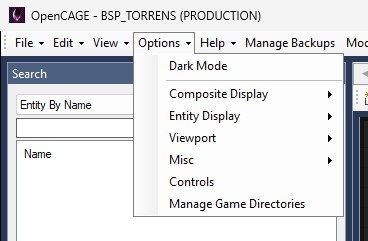
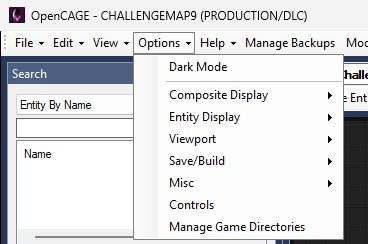
docs

diff --git a/docs/options/index.html b/docs/options/index.html
@@ -87,6 +87,7 @@
 <li class="nav-item section-title"><a class="nav-link scrollto" href="#composite-display"><span class="theme-icon-holder me-2"><i class="fas fa-scroll"></i></span>Composite Display</a></li>
 <li class="nav-item section-title"><a class="nav-link scrollto" href="#entity-display"><span class="theme-icon-holder me-2"><i class="fas fa-scroll"></i></span>Entity Display</a></li>
 <li class="nav-item section-title"><a class="nav-link scrollto" href="#viewport"><span class="theme-icon-holder me-2"><i class="fas fa-scroll"></i></span>Viewport</a></li>
+<li class="nav-item section-title"><a class="nav-link scrollto" href="#save-build"><span class="theme-icon-holder me-2"><i class="fas fa-scroll"></i></span>Save/Build</a></li>
 <li class="nav-item section-title"><a class="nav-link scrollto" href="#misc"><span class="theme-icon-holder me-2"><i class="fas fa-scroll"></i></span>Misc</a></li>
 <li class="nav-item section-title"><a class="nav-link scrollto" href="#controls"><span class="theme-icon-holder me-2"><i class="fas fa-scroll"></i></span>Controls</a></li>
 <li class="nav-item section-title"><a class="nav-link scrollto" href="#manage-installs"><span class="theme-icon-holder me-2"><i class="fas fa-scroll"></i></span>Manage Game Directories</a></li>
@@ -110,8 +111,8 @@
 
 	<section class="docs-section" style="padding-top:0;">
 		<p>The toolbar <b>Options</b> menu configures the script editor — how composites and entities are shown, Viewport behaviour, save/launch helpers, and more. It opens from the <b>Options</b> button on the main toolbar, between <b>View</b> and <b>Help</b>:</p>
-		<p><img src="img/options-menu.jpg" alt="The OpenCAGE toolbar with the Options menu open, listing Dark Mode, Composite Display, Entity Display, Viewport, Misc, Controls and Manage Game Directories." style="max-width:100%;width:720px"></p>
-		<p><b>Composite Display</b>, <b>Entity Display</b>, <b>Viewport</b> and <b>Misc</b> open submenus, mostly of checkboxes that stick between sessions. <b>Controls</b> opens a shortcut reference, and <b>Manage Game Directories</b> opens the multi-install manager.</p>
+		<p><img src="img/options-menu.jpg" alt="The OpenCAGE toolbar with the Options menu open, listing Dark Mode, Composite Display, Entity Display, Viewport, Save/Build, Misc, Controls and Manage Game Directories." style="max-width:100%;width:720px"></p>
+		<p><b>Composite Display</b>, <b>Entity Display</b>, <b>Viewport</b>, <b>Save/Build</b> and <b>Misc</b> open submenus, mostly of checkboxes that stick between sessions. <b>Controls</b> opens a shortcut reference, and <b>Manage Game Directories</b> opens the multi-install manager.</p>
 		<p>The menu stays open after you tick something, so you can set several options in one go — it closes on an outside click, on Escape, or when it loses focus.</p>
     </section>
 </article>
@@ -196,32 +197,47 @@
     </section>
 </article>
 
+<article class="docs-article" id="save-build">
+    <header class="docs-header">
+<h1 class="docs-heading">Save/Build</h1>
+    </header>
+
+	<section class="docs-section" style="padding-top:0;">
+		<p>The <b>Save/Build</b> submenu holds the options that change what saving does: what you're told, what happens afterwards, and how <a href="/docs/save-and-build/">Save and Build</a> treats the level's radiosity. Below it is open with <b>Don't Rebuild Radiosity</b> ticked:</p>
+		<p><img src="img/options-save-build.jpg" alt="The Options menu with the Save/Build submenu open, listing Show Confirmation When Saving (ticked), Prompt to Save on Close, Open Game On Save and a greyed-out Write Compressed, then below a divider a greyed-out Always Fully Rebuild Radiosity and a ticked Don't Rebuild Radiosity." style="max-width:100%;width:720px"></p>
+		<p class="text-muted small"><i>Write Compressed is greyed out because it only reports the loaded level's state. Always Fully Rebuild Radiosity is greyed out, and shows unticked, because Don't Rebuild Radiosity is ticked.</i></p>
+		<ul>
+			<li><b>Show Confirmation When Saving</b> — shows a “Saved changes!” popup after a successful save (on by default).</li>
+			<li><b>Prompt to Save on Close</b> — asks whether to save when you close OpenCAGE with a level open (off by default). Independent of the unsaved-changes indicator, which always adds <b>[UNSAVED CHANGES]</b> to the window title (and so the taskbar) once you've modified something.</li>
+			<li><b>Open Game On Save</b> — after save, launches into the level you're editing, past the title screen. Uses some of the same patches as <a href="/docs/launch-game/">Launch Game</a>, and sets up its <a href="/docs/launch-game/#debug-tools">Debug tools</a> (the <a href="/docs/launch-game/#debug-menu">Debug Menu</a> with <a href="/docs/launch-game/#dont-write-saves">Don't write saves</a> and the free camera in its <a href="/docs/debug-menu/#cinematic">Cinematic group</a> that replaced Cinematic Tools, Debug entities, Hot reload and <a href="/docs/live-link/">Live Link</a>), Cap FPS, Unlock mouse, <a href="/docs/launch-game/#possess-characters">Possess characters</a> and <a href="/docs/launch-game/#ui-mods">UI tweaks</a> as they're ticked in that window (off by default).</li>
+			<li><b>Write Compressed</b> — status only: shows whether the loaded level's Commands are compressed. Not user-togglable.</li>
+			<li><b>Always Fully Rebuild Radiosity</b> — every save rebuilds the level's radiosity from scratch, rather than keeping the existing lighting and only baking what changed. It's slower, and it replaces the game's own lighting in areas you haven't touched too. Once a level has been fully rebuilt, later saves keep fully rebuilding it even with this off (off by default). Greyed out, and shown unticked, while <b>Don't Rebuild Radiosity</b> is ticked; it keeps its own setting for when you untick that. See <a href="/docs/save-and-build/#radiosity">How Radiosity is Handled</a>.</li>
+			<li><b>Don't Rebuild Radiosity</b> — <b>Save and Build</b> keeps the level's radiosity instead of baking it (off by default). That can save minutes a build on a level whose radiosity is rebuilt in full every time, as a custom level's is, or one with a lot of new content to bake. Everything else is still built, and the kept lighting is matched up to the rebuilt level so the game reads it as before: what you haven't touched keeps its lighting, what you've moved keeps the lighting of where it was, and what you've added has no baked lighting yet, so it looks flat until you build with this unticked. OpenCAGE remembers what you added and moved, so that build lights it. A level with no radiosity yet is built without any while this is ticked. The builds OpenCAGE runs for the <a href="/docs/installing-mods/">Mod Manager</a> and when making mods always bake. See <a href="/docs/save-and-build/#skip-radiosity">Skipping the Radiosity Bake</a>.</li>
+		</ul>
+		<p>Saving an uncompressed level now always writes both the PAK and BIN forms of the Commands data — that used to be an option and no longer is. Compressed levels still save as BIN only.</p>
+    </section>
+</article>
+
 <article class="docs-article" id="misc">
     <header class="docs-header">
 <h1 class="docs-heading">Misc</h1>
     </header>
 
 	<section class="docs-section" style="padding-top:0;">
-		<p>The <b>Misc</b> submenu gathers the save, launch, layout and model-preview helpers. Below it is open with the Viewport enabled:</p>
-		<p><img src="img/options-misc.jpg" alt="The Options menu with the Misc submenu open, listing the save, model view, search window, layout, numeric step, launch, platform, render filter, radiosity, cubemap capture size and AI assistant options, with Write Compressed greyed out." style="max-width:100%;width:720px"></p>
-		<p class="text-muted small"><i>Write Compressed is greyed out because it only reports the loaded level's state; Reset Render Filters On Load is listed only while the Viewport is enabled.</i></p>
+		<p>The <b>Misc</b> submenu gathers everything else: the layout, model-preview, search-window and numeric-step helpers, the Live Link ones, and the AI assistant switch. Below it is open with the default ticks:</p>
+		<p><img src="img/options-misc.jpg" alt="The Options menu with the Misc submenu open, listing Use Textured Model View (ticked), Keep Global Search Window Open, Reset UI Layouts, Set Numeric Step, Show Game Platform, Cubemap Capture Size, Hide Live Link Label In-Game and Allow AI Assistants (MCP) (ticked)." style="max-width:100%;width:720px"></p>
+		<p class="text-muted small"><i>Taken with the Viewport disabled: Reset Render Filters On Load is listed, after Show Game Platform, only while the Viewport is enabled.</i></p>
 		<ul>
-			<li><b>Show Confirmation When Saving</b> — shows a “Saved changes!” popup after a successful save (on by default).</li>
-			<li><b>Prompt to Save on Close</b> — asks whether to save when you close OpenCAGE with a level open (off by default). Independent of the unsaved-changes indicator, which always adds <b>[UNSAVED CHANGES]</b> to the window title (and so the taskbar) once you've modified something.</li>
 			<li><b>Use Textured Model View</b> — model previews try to load textures/materials (on by default).</li>
 			<li><b>Keep Global Search Window Open</b> — after jumping to an entity from global search, the search window stays open (off by default).</li>
 			<li><b>Reset UI Layouts</b> — restores the default window size and dock panel layout. If the Viewport is open, it's kept and repositioned. You stay where you were: the same composite, stepped down as you were, with the same selection.</li>
 			<li><b>Set Numeric Step</b> — sets how much position and rotation values change when you nudge numeric fields in inspectors (defaults: position <code>0.1</code>, rotation <code>1.0</code>).</li>
-			<li><b>Open Game On Save</b> — after save, launches into the level you're editing, past the title screen. Uses some of the same patches as <a href="/docs/launch-game/">Launch Game</a>, and sets up its <a href="/docs/launch-game/#debug-tools">Debug tools</a> (the <a href="/docs/launch-game/#debug-menu">Debug Menu</a> with <a href="/docs/launch-game/#dont-write-saves">Don't write saves</a> and the free camera in its <a href="/docs/debug-menu/#cinematic">Cinematic group</a> that replaced Cinematic Tools, Debug entities, Hot reload and <a href="/docs/live-link/">Live Link</a>), Cap FPS, Unlock mouse, <a href="/docs/launch-game/#possess-characters">Possess characters</a> and <a href="/docs/launch-game/#ui-mods">UI tweaks</a> as they're ticked in that window (off by default).</li>
 			<li><b>Show Game Platform</b> — adds the detected platform (e.g. Steam) to the window title, straight after OpenCAGE — handy with <a href="/docs/multiple-game-installs/">multiple installs</a> open (off by default).</li>
-			<li><b>Write Compressed</b> — status only: shows whether the loaded level's Commands are compressed. Not user-togglable.</li>
 			<li><b>Reset Render Filters On Load</b> — when loading a level, puts the Viewport's function-type render filters back to their defaults (only <b>ModelReference</b> ticked); <b>Occlusion Meshes</b> and <b>Collision Meshes</b> are left as they are. Listed only while the Viewport is enabled (off by default). See <a href="/docs/level-viewer/#previews">Previews &amp; Render Filters</a>.</li>
-			<li><b>Always Fully Rebuild Radiosity</b> — every save rebuilds the level's radiosity from scratch, rather than keeping the existing lighting and only baking what changed. It's slower, and it replaces the game's own lighting in areas you haven't touched too. Once a level has been fully rebuilt, later saves keep fully rebuilding it even with this off (off by default). See <a href="/docs/save-and-build/#radiosity">How Radiosity is Handled</a>.</li>
 			<li><b>Cubemap Capture Size</b> — the size of each face of the cubemaps <a href="/docs/live-link/#capture-cubemaps">captured in the game</a> over Live Link: <b>Same as the Cubemap Replaced</b> (the default; the game's own are all 128 × 128), or 64, 128, 256 or 512 pixels. Bigger is sharper on mirror-like surfaces and takes more memory; the game's window needs to be at least as tall as the faces.</li>
 			<li><b>Hide Live Link Label In-Game</b> — the game stops showing <b>OpenCAGE Live Link</b> in its top-right corner while <a href="/docs/live-link/">Live Link</a> is connected. A connected game hides or shows it straight away, and a game launched later starts that way. The line about the last thing Live Link did still shows for a few seconds, in the label's place (off by default).</li>
 			<li><b>Allow AI Assistants (MCP)</b> — lets AI assistants such as Claude drive OpenCAGE through <code>OpenCAGE.MCP.exe</code>. Only programs running as you, on this PC, can connect (on by default). While an assistant is working, the status bar says so. See <a href="/docs/ai-assistants/">AI Assistants</a>, and <a href="/docs/ai-assistants/#working">While It Works</a> for that label and the question when you close OpenCAGE mid-task.</li>
 		</ul>
-		<p>Saving an uncompressed level now always writes both the PAK and BIN forms of the Commands data — that used to be an option here and no longer is. Compressed levels still save as BIN only.</p>
     </section>
 </article>
 

diff --git a/docs/save-and-build/index.html b/docs/save-and-build/index.html
@@ -103,6 +103,7 @@
 <li class="nav-item"><a class="nav-link scrollto" href="#gen-lighting">Lighting</a></li>
 <li class="nav-item"><a class="nav-link scrollto" href="#gen-sound">Sound</a></li>
 <li class="nav-item section-title"><a class="nav-link scrollto" href="#radiosity"><span class="theme-icon-holder me-2"><i class="fas fa-scroll"></i></span>How Radiosity is Handled</a></li>
+<li class="nav-item"><a class="nav-link scrollto" href="#skip-radiosity">Skipping the Radiosity Bake</a></li>
 <li class="nav-item section-title"><a class="nav-link scrollto" href="#checking"><span class="theme-icon-holder me-2"><i class="fas fa-scroll"></i></span>Checking the Result</a></li>
 <li class="nav-item section-title"><a class="nav-link scrollto" href="#tips"><span class="theme-icon-holder me-2"><i class="fas fa-scroll"></i></span>Tips &amp; Troubleshooting</a></li>
 <li class="nav-item section-title"><a class="nav-link scrollto" href="#related"><span class="theme-icon-holder me-2"><i class="fas fa-scroll"></i></span>Related Docs</a></li>
@@ -169,7 +170,7 @@
     </header>
 
 	<section class="docs-section" style="padding-top:0;">
-		<p>Everything below is regenerated from the level as it now stands. You do not choose between them individually — a build runs the whole pipeline.</p>
+		<p>Everything below is regenerated from the level as it now stands. You do not choose between them individually — a build runs the whole pipeline, except that it can be told to keep the level's radiosity as it is (see <a href="#skip-radiosity">Skipping the Radiosity Bake</a>).</p>
 	</section>
 
 	<section class="docs-section" id="gen-geometry">
@@ -229,9 +230,22 @@
 			<li>The level has no usable radiosity to patch — a stripped or newly created level with nothing to build on</li>
 			<li>The level's radiosity was already fully regenerated by a previous build — at that point none of the original bake is left, so there is nothing to preserve</li>
 		</ul>
-		<p>You can also ask for a full regeneration on every build with <b>Options → Misc → Always Fully Rebuild Radiosity</b> (off by default). Once that has rebuilt a level, the second case above applies to it from then on.</p>
+		<p>You can also ask for a full regeneration on every build with <b>Options → Save/Build → Always Fully Rebuild Radiosity</b> (off by default). Once that has rebuilt a level, the second case above applies to it from then on.</p>
 		<p>When a level is fully regenerated, OpenCAGE records that fact in a small <code>.META</code> file next to the level's radiosity data. Later builds read it and keep fully rebuilding, rather than patching lighting that is already entirely ours.</p>
 		<p>A fully regenerated bake is dimmer and flatter than retail's — expect to spend some time on your lights afterwards. <a href="/docs/live-link/#lights">Live Link</a> lets you place and tune lights in the running game, so you can get them right by eye before you build; the bounced light is only worked out by the build itself. If you have a pristine copy of a level's original radiosity, restoring it before you build will give you a better starting point than letting it regenerate.</p>
+	</section>
+
+	<section class="docs-section" id="skip-radiosity">
+		<h2 class="section-heading">Skipping the Radiosity Bake</h2>
+		<p>A custom level's radiosity is all OpenCAGE's own, so every build bakes it from scratch, and that bake can be nearly all of the build's time: minutes, against seconds for everything else. While you're working on the layout, tick <b>Options → Save/Build → Don't Rebuild Radiosity</b> (off by default) and builds leave the radiosity alone. Everything else is regenerated as usual, and the existing bake is kept and matched up to the rebuilt level, so the game reads it as before:</p>
+		<ul>
+			<li>Objects you haven't touched keep their lighting.</li>
+			<li>Objects you've moved keep the lighting of where they were.</li>
+			<li>Objects you've added have no baked lighting yet, so they look flat, and stand out in a dark room.</li>
+			<li>Objects you've deleted stop giving off light, but the light they bounced onto their surroundings stays in the bake.</li>
+		</ul>
+		<p>OpenCAGE notes what you add and move while the option is ticked, in a small <code>.PENDING.META</code> file beside the level's radiosity data. Untick it and build when you want them lit: a patched level bakes them along with anything else you changed, and a fully regenerated one is rebuilt whole, as usual. A level with no radiosity at all yet, such as a new level that has never been built, is built without any while the option is ticked.</p>
+		<p>While it's ticked, <b>Always Fully Rebuild Radiosity</b> is greyed out and has no effect. The builds that porting composites and importing packages run (<b>Build after port</b> and <b>Build after import</b> in <a href="/docs/composite-porting/">Composite Porting</a>) follow the option too. The builds OpenCAGE runs when the <a href="/docs/installing-mods/">Mod Manager</a> merges mods into a level, or when it <a href="/docs/making-mods/">makes a mod</a> from your level, always bake, since what they produce is what players get.</p>
 	</section>
 </article>
 
@@ -260,11 +274,11 @@
 
 	<section class="docs-section" style="padding-top:0;">
 		<ul>
-			<li><b>Build last, not constantly.</b> Do your script and layout work with plain saves, then build once you're ready to test the result in game. There is no benefit to building after every small edit, and it costs you minutes each time.</li>
+			<li><b>Build last, not constantly.</b> Do your script and layout work with plain saves, then build once you're ready to test the result in game. There is no benefit to building after every small edit, and it costs you minutes each time. If you do need to build often on a big level, <a href="#skip-radiosity">Don't Rebuild Radiosity</a> leaves out the slowest part.</li>
 			<li><b>Alien: Isolation is closed automatically</b> when you save, as it holds write locks on the level files. That applies to a build too. Only the game running from this install is closed; one running from another install is left alone.</li>
 			<li><b>"Some data was not regenerated" after a build</b> means a baker failed, or the build hit something smaller it could not do as asked (a required model or gobo texture the level does not ship, a shader it could not compile). The level still saved, but any system the dialog lists as not regenerated kept whatever was already on disk — if that was the navmesh or collision, the game plays on the old layout until a later build succeeds. It can come up after a plain save too, listing character classes whose behaviour tree is missing or can't be loaded: characters of that class crash the game when they spawn, so point the class at another tree in the <a href="/docs/configs/attributes/">Attributes</a> editor.</li>
 			<li><b>A backup in progress blocks saving.</b> If the <a href="/docs/backup-manager/">Backup Manager</a> is working on the level you're editing, saving is refused until it finishes. The same goes while the <a href="/docs/installing-mods/">Mod Manager</a> is applying mods.</li>
-			<li><b>New geometry looks unlit in game?</b> Check whether the level fell through to a full regeneration — see <a href="#radiosity">How Radiosity is Handled</a>. Lighting on newly added objects is generated from your level's lights, so an object placed in a room with no light in it will stay dark.</li>
+			<li><b>New geometry looks unlit in game?</b> Check that <b>Options → Save/Build → Don't Rebuild Radiosity</b> isn't ticked: while it is, nothing new is baked (see <a href="#skip-radiosity">Skipping the Radiosity Bake</a>). Then check whether the level fell through to a full regeneration — see <a href="#radiosity">How Radiosity is Handled</a>. Lighting on newly added objects is generated from your level's lights, so an object placed in a room with no light in it will stay dark.</li>
 			<li><b>NPCs won't path onto new floor?</b> The navmesh is generated from ExclusiveMaster sets — geometry outside those sets isn't considered walkable. Check the generated navmesh with the Viewport's <b>State Info</b> dropdown.</li>
 		</ul>
 	</section>

diff --git a/docs/live-link/index.html b/docs/live-link/index.html
@@ -326,7 +326,7 @@
 			<li><b>What <a href="/docs/save-and-build/">Save and Build</a> works out from the layout</b>: navmesh, cover and job positions, sound, and baked lighting. Props and prefabs you place, and anything you move, over Live Link appear where you put them, but NPCs go by the navmesh, cover and job positions of the last build, and the baked (bounced) lighting stays as the last build left it, until you Save and Build and load the level again.</li>
 			<li><b>Anything else the game only reads when it loads a level.</b></li>
 		</ul>
-		<p>Saving closes the game, as it always has, so save once you're ready to restart it: <b>File → Save Level</b>, or <b>File → Save and Build Level</b> when there's content to build, then start the game again from Launch Game. With <a href="/docs/options/#misc">Options → Misc → Open Game On Save</a> ticked, saving starts the game again in the level for you, and OpenCAGE reconnects once it's up.</p>
+		<p>Saving closes the game, as it always has, so save once you're ready to restart it: <b>File → Save Level</b>, or <b>File → Save and Build Level</b> when there's content to build, then start the game again from Launch Game. With <a href="/docs/options/#save-build">Options → Save/Build → Open Game On Save</a> ticked, saving starts the game again in the level for you, and OpenCAGE reconnects once it's up.</p>
 		<p>The game must be running the level you have open in OpenCAGE. Edits and method calls for any other level are turned away with <b>The game is running a different level</b>, rather than landing in the wrong place.</p>
 		<p>Unsaved edits you made <b>before</b> Live Link connected aren't in the game, which loaded the level from disk. They reach it the next time you edit that composite (the whole composite is sent), or when you <a href="#resync">Resync</a> it.</p>
 	</section>
@@ -716,7 +716,7 @@
 			<li><b>My live edits have gone from the game.</b> The game loaded the level again from disk, which only has what you've saved. <a href="#resync">Resync</a> each composite you changed, or save and start the game again.</li>
 			<li><b>Show Activity lights nothing.</b> The script hasn't run since you switched Show Activity on or cleared it: play up to it, or set it off by <a href="#calling-methods">triggering a method</a>. Check you're watching the instance that runs (open the composite from the Composite Browser to watch every instance of it), and that the composite has flowgraph pages. If the status bar says <b>the game's OpenCAGE.RuntimeUtils.asi is too old to show script activity</b>, the game is running an older copy of OpenCAGE's runtime utils: start it from Launch Game again, which updates them. See <a href="#activity-limits">Limits</a> for the rest.</li>
 			<li><b>Something stopped when I edited it.</b> Edited entities are re-initialised, so start it again (<a href="#calling-methods">trigger its <b>start</b></a>).</li>
-			<li><b>The game closed when I saved.</b> Saving always closes the game. Start it again from Launch Game. With <b>Options → Misc → Open Game On Save</b> ticked, OpenCAGE starts it again by itself once the save is done, and Live Link reconnects.</li>
+			<li><b>The game closed when I saved.</b> Saving always closes the game. Start it again from Launch Game. With <b>Options → Save/Build → Open Game On Save</b> ticked, OpenCAGE starts it again by itself once the save is done, and Live Link reconnects.</li>
 		</ul>
 		<p>The game also writes what Live Link did (every edit applied, call made or request turned away) to <code>OpenCAGE.RuntimeUtils.log</code> in the game folder. OpenCAGE's status bar messages clear after a few seconds, so the log is where to look for one you missed. It's started afresh each time the game starts, so read it before starting the game again.</p>
     </section>

diff --git a/docs/level-viewer/index.html b/docs/level-viewer/index.html
@@ -329,7 +329,7 @@
 	<section class="docs-section" id="composite-previews">
 		<h2 class="section-heading">Composite Previews</h2>
 		<p>The previews the <a href="/docs/scripting-intro/#interface-overview">composite browser</a> and the composite pickers show beside each composite are captured by the Viewport: the composite as it looks opened on its own (not as one of its instances in a level, so no material remaps or overrides from where it's placed), framed in the middle of a square with a transparent background, seen from above and to one side. OpenCAGE ships one for every composite in the game. When you save a level with the Viewport running, every composite whose look you've changed since its preview was captured is captured again: adding, moving, editing or deleting its models, lights, triggers and other placed entities, composite instances or aliases counts, but script logic, variables and proxies draw nothing, so changing them doesn't. The new previews are kept in your level's <code>COMMANDS.PAK</code> beside your flowgraph layouts &ndash; they take precedence over the shipped ones, and travel with a composite when it is ported to another level. A <a href="/docs/composite-porting/#disk">composite package</a> (<code>.ocp</code>) carries no previews: import one and the composites it was made from are captured at your next save. A preview shows the composite's models as the game draws them, whatever the Viewport is showing: the <a href="#previews">render filters</a>, <a href="#scene-filters">occlusion and collision meshes</a>, <a href="#zones">zone colours</a> and <b>Render Wireframe</b> you have switched on are left out of it, and the models are in it even with the ModelReference filter off. A composite with no models in it (pure script, or only volumes, markers and lights) has no preview and keeps its icon. The capture happens without disturbing the view: the Viewport puts your camera and what you were looking at back when it's done, and ignores the keyboard and mouse while it works. If the Viewport is off when you save, the shipped previews simply stay until a save with it on.</p>
-		<p><b>Options → Composite Display → Composite Browser Mode</b> chooses what the Composite Browser shows: the tree alone, the tree with a folder browser, or the tree with the preview list (the default). <b>Show Composite Previews In Tree Views</b> puts small ones beside the names in the tree and the composite pickers too (off by default). The <b>Create Composite Instance Entity</b> window shows the selected composite's preview beside its tree, at the size it was captured: see <a href="/docs/scripting-intro/#composite-instance-preview">Creating a Script</a>. So does the <b>Select Composite</b> picker, which the <a href="/docs/character-editor/#composites">Character Editor</a>'s <b>Change</b> buttons open.</p>
+		<p><b>Options → Composite Display → Composite Browser Mode</b> chooses what the Composite Browser shows: the tree alone, the tree with a folder browser, or the tree with the preview list (the default). <b>Show Composite Previews In Tree Views</b> puts small ones beside the names in the tree and the composite pickers too (off by default). The <b>Create Composite Instance Entity</b> window shows the selected composite's preview beside its tree, at the size it was captured: see <a href="/docs/scripting-intro/#composite-instance-preview">Creating a Script</a>. So does the <b>Select Composite</b> picker, which the <a href="/docs/character-editor/#composites">Character Editor</a>'s <b>Change</b> buttons open, and <a href="/docs/composite-porting/#import">Import from Level</a> shows the clicked composite's preview as its own level has it.</p>
 	</section>
 
 	<section class="docs-section" id="scene-filters">

diff --git a/docs/debug-menu/index.html b/docs/debug-menu/index.html
@@ -230,7 +230,7 @@
 
 	<section class="docs-section" style="padding-top:0;">
 		<p>Press <b>Launch Game</b> on the main toolbar, tick <b>Debug Menu</b> at the top of the <b>Debug tools</b> group, and pick the key that opens it from the dropdown beside the box: <b>F7</b> by default, with the same choices as Launch Game's other <a href="/docs/launch-game/#keys">keys</a>. Then press <b>Start Alien: Isolation</b>.</p>
-		<p>The runtime utils support the Steam, GOG and Epic Games Store versions of the game, so on other platforms the box is greyed out. The Debug Menu runs alongside the rest of the <a href="/docs/launch-game/#debug-tools">Debug tools</a>: tick <b>Live Link</b> as well if you want OpenCAGE's script debugger or an AI assistant to work the menu (see <a href="#remote">Live Link &amp; AI Assistants</a>). Starting the game from Launch Game, or by saving with <a href="/docs/options/#misc">Options → Misc → Open Game On Save</a> ticked, sets it up as it's ticked there, and it then stays in the game folder, so a game started from Steam has it too until OpenCAGE next starts the game without it.</p>
+		<p>The runtime utils support the Steam, GOG and Epic Games Store versions of the game, so on other platforms the box is greyed out. The Debug Menu runs alongside the rest of the <a href="/docs/launch-game/#debug-tools">Debug tools</a>: tick <b>Live Link</b> as well if you want OpenCAGE's script debugger or an AI assistant to work the menu (see <a href="#remote">Live Link &amp; AI Assistants</a>). Starting the game from Launch Game, or by saving with <a href="/docs/options/#save-build">Options → Save/Build → Open Game On Save</a> ticked, sets it up as it's ticked there, and it then stays in the game folder, so a game started from Steam has it too until OpenCAGE next starts the game without it.</p>
 		<p>The Debug Menu can't share its key with Hot reload, Unlock mouse or Possess characters while they're ticked: Launch Game says so and puts the dropdown back. It also warns you if you pick a key the Debug Menu's <a href="#camera-keys">free camera</a> uses (<b>F8</b> turns it on and off, <b>F9</b> takes a screenshot, and F1 to F3, Home, Delete, End, Page Up and Page Down act while it flies), because the free camera then goes without that key.</p>
 		<p><b>Cinematic Tools are now part of the Debug Menu.</b> Launch Game no longer has an <b>Enable Cinematic Tools</b> box (hover over <b>Debug Menu</b> there and its tooltip says where they went): the free camera, camera tracks and visuals are in the Debug Menu's <a href="#cinematic">Cinematic</a> group, and the separate Cinematic Tools program no longer comes with OpenCAGE. See <a href="#from-cinematic-tools">Coming from Cinematic Tools</a> for where everything went.</p>
 		<p><b>So is one more of Launch Game's old options.</b> The Debug Menu also does what <b>Enable UI Memory Overlay</b> did, so it's gone from Launch Game: the UI memory overlay is a checkbox in <a href="#perf-memory">Performance &gt; Memory</a> (see <a href="/docs/launch-game/#removed-options">Removed Options</a>). It also has the level's debug checkpoints, in <a href="#checkpoints">Game &gt; Tools</a>, and loads any level from <a href="#game-flow">Game &gt; Game flow</a>; Launch Game's <a href="/docs/launch-game/#ui-mods">UI tweaks</a> can add those to the game's own pause and main menus as well.</p>

diff --git a/docs/debug-text/index.html b/docs/debug-text/index.html
@@ -134,7 +134,7 @@
 
 	<section class="docs-section" style="padding-top:0;">
 		<p>Press <b>Launch Game</b> on the main toolbar, tick <b>Debug entities</b> in the <b>Debug tools</b> group, and press <b>Start Alien: Isolation</b>. The one box switches all four on together, along with the other debug entities (DebugGraph and the rest, see the Debug Menu's <a href="/docs/debug-menu/#scripts-entities">Scripts &gt; Entities</a>). (Older versions had a box for each: Enable DebugText, Enable DebugTextStacking, Enable DebugEnvironmentMarker and Enable DebugPositionMarker. If any of them was ticked, Debug entities is ticked for you.) Tick <b>Live Link</b> in the same group too if you want to add debug entities and start them while the game runs (see <a href="#tips">Tips</a>).</p>
-		<p>The runtime utils support the Steam, GOG and Epic Games Store versions of the game, so on other platforms the box is greyed out. The debug entities draw alongside the <a href="/docs/debug-menu/">Debug Menu</a>, including the free camera in its <a href="/docs/debug-menu/#cinematic">Cinematic group</a> that replaced Cinematic Tools, so there's no need to turn them off to film. The Debug Menu's screenshots leave them out, along with everything else the runtime utils draw. Starting the game from Launch Game, or by saving with <a href="/docs/options/#misc">Options → Misc → Open Game On Save</a> ticked, sets them up as the box is ticked in that window. They then stay in the game folder, so a game started from Steam draws them if the box was ticked the last time OpenCAGE started it. See <a href="/docs/launch-game/#debug-tools">Launch Game</a> for the rest of the Debug tools group.</p>
+		<p>The runtime utils support the Steam, GOG and Epic Games Store versions of the game, so on other platforms the box is greyed out. The debug entities draw alongside the <a href="/docs/debug-menu/">Debug Menu</a>, including the free camera in its <a href="/docs/debug-menu/#cinematic">Cinematic group</a> that replaced Cinematic Tools, so there's no need to turn them off to film. The Debug Menu's screenshots leave them out, along with everything else the runtime utils draw. Starting the game from Launch Game, or by saving with <a href="/docs/options/#save-build">Options → Save/Build → Open Game On Save</a> ticked, sets them up as the box is ticked in that window. They then stay in the game folder, so a game started from Steam draws them if the box was ticked the last time OpenCAGE started it. See <a href="/docs/launch-game/#debug-tools">Launch Game</a> for the rest of the Debug tools group.</p>
     </section>
 </article>
 

diff --git a/docs/composite-porting/index.html b/docs/composite-porting/index.html
@@ -164,6 +164,7 @@
 		<p><img src="img/import-from-level.jpg" alt="The Import Composites Into PRODUCTION/BSP_TORRENS window: the level list on the left with TECH_HUB chosen, its composites on the right with M06_Pt02 ticked and the composites the open level already has marked (already in this level), the summary line, and the overwrite options and Open composite after import beside Import." style="max-width:100%;width:762px"></p>
 		<p class="text-muted small"><i>Import from Level into BSP_Torrens: TECH_HUB chosen as the source and its M06_Pt02 mission composite ticked, which brings the 233 composites it instances with it. Composites the open level already has are marked (already in this level).</i></p>
 		<p>Pick a source from the <b>Level</b> list on the left and its composites appear in the same tree, read straight from that level's script table — the level itself isn't loaded, so switching between sources is quick. Tick what you want (folders, <b>Search</b> and check-all work as in the export dialog, with the last search kept when you pick another level, and the composites a ticked one instances are ticked and greyed for you; composites the open level already has are marked <b>(already in this level)</b>, so you can see what an import would replace rather than add), then switch to another level and tick more: one import can draw on any number of levels, and the summary line keeps count across them.</p>
+		<p>Click a composite's name and the <b>Preview</b> pane on the right shows its <a href="/docs/level-viewer/#composite-previews">preview</a> as the source level has it: the one that level saved in its own <code>COMMANDS.PAK</code> if there is one, otherwise the one OpenCAGE ships, never the open level's. Composites with nothing to draw, such as pure script and lights, show <b>No preview</b>. The window can be resized to show more of the tree.</p>
 		<ul>
 			<li><b>Overwrite composites already here</b> — replace a composite the open level already has with the imported one. Both overwrite options are off by default here. The composite editor is closed first (whatever composite you had open, along with any child tabs), since it would be holding the old copy.</li>
 			<li><b>Overwrite existing assets</b> — likewise for the models, materials, textures and collision they use.</li>

diff --git a/docs/launch-game/index.html b/docs/launch-game/index.html
@@ -392,9 +392,9 @@
 	<section class="docs-section" style="padding-top:0;">
 		<p>Outside the Launch Game window, under the toolbar's <b>Options</b> dropdown (shown below):</p>
 		<ul>
-			<li><b>Options → Misc → Open Game On Save</b> — after you save, OpenCAGE starts the game straight into the level you're editing, past the title screen. This bypasses the Launch Game window, but the <a href="#debug-tools">Debug tools</a> (the <a href="#debug-menu">Debug Menu</a> with <a href="#dont-write-saves">Don't write saves</a>, Debug entities, Hot reload and Live Link), Cap FPS, Unlock mouse, <a href="#possess-characters">Possess characters</a> and the <a href="#ui-mods">UI tweaks</a> are still set up as they're ticked in the window. Off by default. See <a href="/docs/options/#misc">Options</a> for the rest of the menu.</li>
+			<li><b>Options → Save/Build → Open Game On Save</b> — after you save, OpenCAGE starts the game straight into the level you're editing, past the title screen. This bypasses the Launch Game window, but the <a href="#debug-tools">Debug tools</a> (the <a href="#debug-menu">Debug Menu</a> with <a href="#dont-write-saves">Don't write saves</a>, Debug entities, Hot reload and Live Link), Cap FPS, Unlock mouse, <a href="#possess-characters">Possess characters</a> and the <a href="#ui-mods">UI tweaks</a> are still set up as they're ticked in the window. Off by default. See <a href="/docs/options/#save-build">Options</a> for the rest of the menu.</li>
 		</ul>
-		<p><img src="img/options-misc-open-game-on-save.jpg" alt="The toolbar's Options menu with the Misc submenu open, showing the Open Game On Save item unticked." style="max-width:100%;width:493px"></p>
+		<p><img src="img/options-save-build-open-game-on-save.jpg" alt="The toolbar's Options menu with the Save/Build submenu open, showing the Open Game On Save item unticked." style="max-width:100%;width:484px"></p>
     </section>
 </article>
 

diff --git a/docs/ai-assistants/index.html b/docs/ai-assistants/index.html
@@ -186,7 +186,7 @@
 		<p><img src="img/close-question.jpg" alt="The Close OpenCAGE? box with a warning sign: An AI assistant is in the middle of a task in OpenCAGE (Open level). Closing OpenCAGE now stops it part-way through. Close OpenCAGE anyway? With Yes and No buttons." style="max-width:100%;width:409px"></p>
 		<ul>
 			<li><b>No</b>, the default, keeps OpenCAGE open, and the assistant's task carries on.</li>
-			<li><b>Yes</b> closes OpenCAGE, and the task stops part-way. If <a href="/docs/options/#misc">Prompt to Save on Close</a> is on and the level has changes, <b>Save level?</b> comes next, as usual. The assistant is told OpenCAGE closed, and OpenCAGE is started again on its next request, as it is when it isn't open.</li>
+			<li><b>Yes</b> closes OpenCAGE, and the task stops part-way. If <a href="/docs/options/#save-build">Prompt to Save on Close</a> is on and the level has changes, <b>Save level?</b> comes next, as usual. The assistant is told OpenCAGE closed, and OpenCAGE is started again on its next request, as it is when it isn't open.</li>
 		</ul>
 		<p>While the question is up, the assistant waits for you: anything new it asks OpenCAGE for is turned away until you've answered, and a level that's loading carries on loading but doesn't open its panels until then. The question only comes up while a tool is actually running. Between calls, even while the label is still showing, OpenCAGE closes as it always does.</p>
 	</section>
